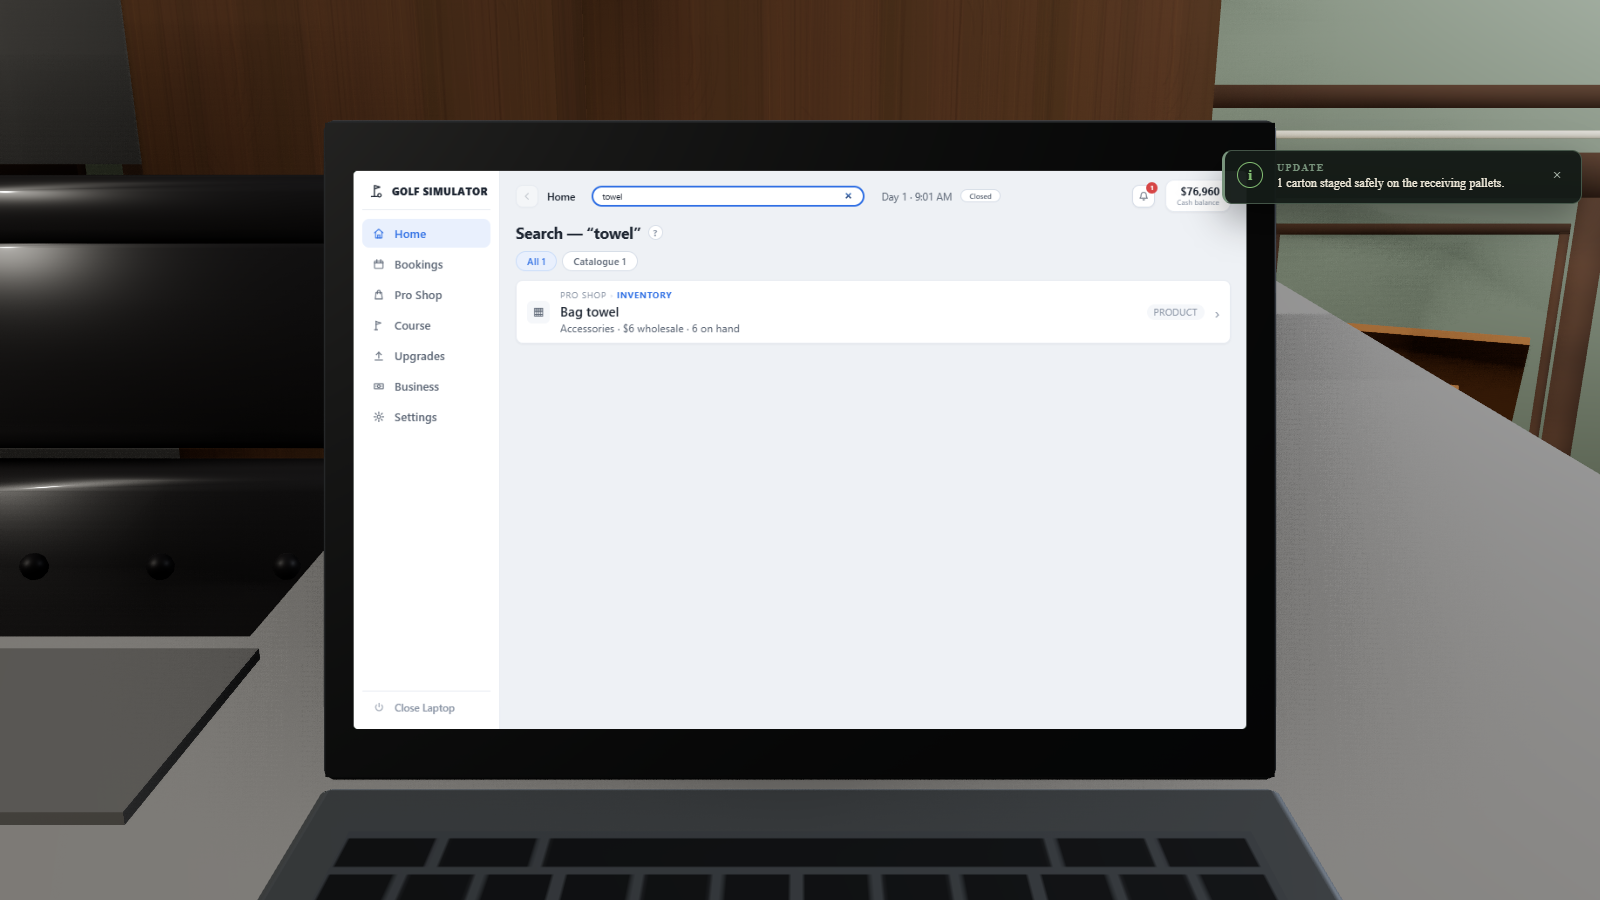
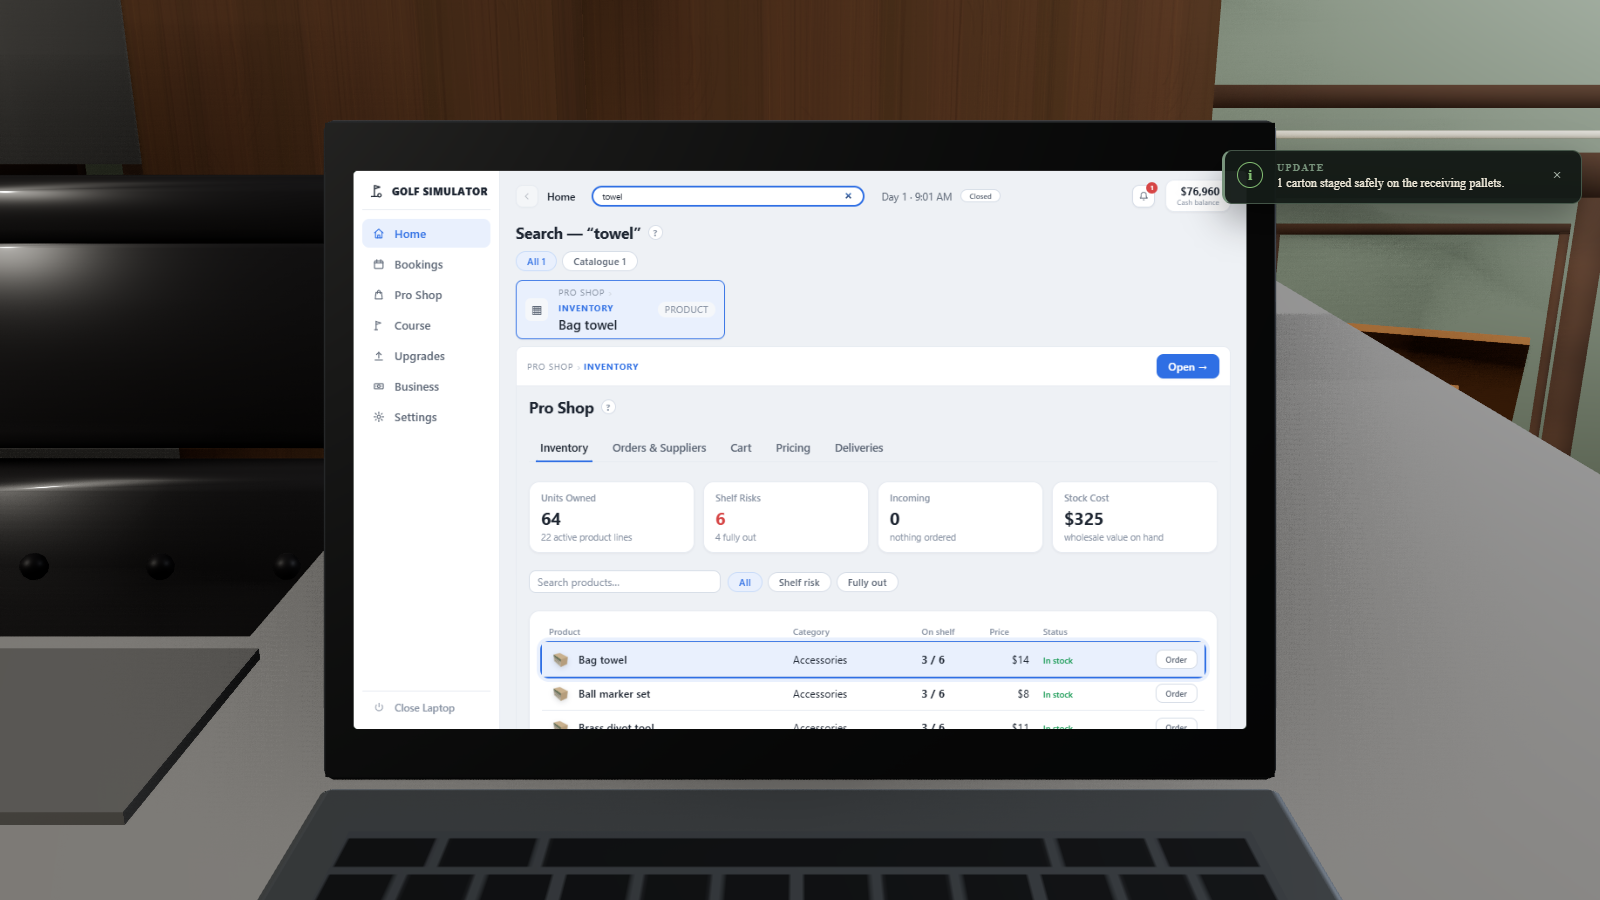
Search previews ARE the page: the real map, the real switch, live DOM
Playtest 2026-07-30: "make it show the actual thing — if he searches map it
shows the actual map, the exact way it looks on the laptop." Location rows are
gone as the payload; they compacted into a chip rail, and the panel under them
renders the selected hit's page by RUNNING the page's own function with the
paint target swapped. Same head, same tab bar, same cards, live buttons — a
tab clicked inside the preview re-renders the preview on that tab, because it
is not a picture of the page, it is the page.

Open → in the preview bar is what navigates (row click previews), the anchor
flashes INSIDE the panel via the generalised revealAnchor(anchor, container),
and per-tab aliases put "map" on Course › Overview (with orders/money/employees
aliases on their tabs while there).

MEASURED live (laptop-search-navigate.json, all 25 findings true):
  - "exact change" previews the REAL checkbox row — a label wrapping an actual
    input — with the flash inside the panel, and Open lands on
    Settings › Checkout with the row revealed.
  - "map" previews the Course page with the LIVE aerial: the canvas exists and
    its pixels are drawn (sampled alpha), the head says Course, and the shot
    laptop-search-8-map-preview.png shows the aerial + condition bars inline
    under the search field.
  - the two-step contract (chip = preview, Open = navigate) verified for the
    product, the setting and the booking-by-surname cases.
[…]

diff --git a/src/ui/laptop.js b/src/ui/laptop.js
@@ -551,7 +551,7 @@ export function makeLaptop(app, opts) {
     placeholder: 'Search the whole laptop…',
     'aria-label': 'Search every page, product, person and setting in the laptop',
   });
-  searchInput.addEventListener('input', () => { query = searchInput.value.trim(); render(); });
+  searchInput.addEventListener('input', () => { query = searchInput.value.trim(); searchSelection = 0; render(); });
   searchInput.addEventListener('keydown', (e) => {
     e.stopPropagation(); // typing 'w' in here is text, not a walk key
     if (e.key === 'Escape' && query) {
@@ -582,7 +582,11 @@ export function makeLaptop(app, opts) {
   root.addEventListener('click', (e) => e.stopPropagation());
 
   // --- building blocks ----------------------------------------------------------------------
-  const paint = (...kids) => content.replaceChildren(...kids.filter((k) => k != null && k !== false));
+  // paint targets `content` — except while the search preview borrows it. The
+  // preview renders a page by RUNNING the page's own function with the target
+  // swapped, so what search shows is the page's exact DOM, not a description.
+  let paintTarget = content;
+  const paint = (...kids) => paintTarget.replaceChildren(...kids.filter((k) => k != null && k !== false));
   const sect = (t) => el('div', { class: 'lt-sect', text: t });
   const row = (...kids) => el('div', { class: 'lt-row' }, ...kids);
   const chip = (t, kind = '') => el('span', { class: `lt-chip ${kind}`, text: t });
@@ -3215,10 +3219,17 @@ export function makeLaptop(app, opts) {
     // --- the pages themselves, and every tab on them -----------------------------
     // Apple's Settings search returns the panes as well as the switches inside them,
     // and it is the fastest way to cross the laptop: type "deliv", press the row.
+    const TAB_ALIASES = {
+      'course:overview': ['map', 'aerial', 'course map', 'holes map'],
+      'shop:deliveries': ['orders', 'shipments', 'boxes'],
+      'finances:finances': ['money', 'books', 'ledger', 'cash'],
+      'upgrades:staff': ['employees', 'hire', 'team'],
+    };
     for (const n of NAV) {
       add('Page', n.label, 'Open this desk', { page: n.id }, [n.id]);
       for (const [tab, label] of tabsOf(n.id)) {
-        add('Page', label, `${n.label} tab`, { page: n.id, tab }, [tab, n.id, n.label]);
+        add('Page', label, `${n.label} tab`, { page: n.id, tab },
+          [tab, n.id, n.label, ...(TAB_ALIASES[`${n.id}:${tab}`] || [])]);
       }
     }
 
@@ -3352,6 +3363,7 @@ export function makeLaptop(app, opts) {
 
   // WHAT THE PLAYER SEARCHED, WHERE IT LIVES, AND WHAT TO FLASH WHEN WE ARRIVE.
   let searchFilter = 'all';
+  let searchSelection = 0;    // which hit the live preview is showing
   let lastReveal = null;      // {anchor, found, selector, text} — read by the QA driver
 
   // The order matters: a section heading is a better landing place than a table cell
@@ -3367,14 +3379,14 @@ export function makeLaptop(app, opts) {
    * null is a real answer and is recorded, because "navigated but the row was not
    * there" must not read the same as "navigated and found it".
    */
-  function revealAnchor(anchor) {
+  function revealAnchor(anchor, container = content) {
     lastReveal = { anchor: anchor || null, found: false, selector: null, text: null };
     if (!anchor) return null;
     const needle = String(anchor).trim().toLowerCase();
     if (!needle) return null;
     for (const pass of ['exact', 'partial']) {
       for (const selector of ANCHOR_SELECTORS) {
-        for (const node of content.querySelectorAll(selector)) {
+        for (const node of container.querySelectorAll(selector)) {
           const text = (node.textContent || '').trim().toLowerCase();
           if (!text || text.length > 240) continue;
           const hit = pass === 'exact' ? text === needle : text.includes(needle);
@@ -3425,24 +3437,24 @@ export function makeLaptop(app, opts) {
   // So the crumbs are the first thing in the row's text block, in their own type, and
   // the row is a single button — the whole thing is the target, not a "Go" chip at the
   // far right that the player has to aim at.
-  function searchResultRow(hit) {
-    const crumbs = el('div', { class: 'lt-hitpath' });
+  function searchResultRow(hit, index) {
+    const crumbs = el('span', { class: 'lt-hitpath' });
     (hit.path || []).forEach((part, i) => {
       if (i) crumbs.appendChild(el('span', { class: 'lt-hitsep', text: '›' }));
       crumbs.appendChild(el('span', { class: `lt-hitcrumb ${i === (hit.path.length - 1) ? 'lt-hitcrumblast' : ''}`, text: part }));
     });
+    // A chip: clicking it swaps the live preview underneath to this hit's real
+    // page. Open (in the preview bar) is what navigates.
     return el('button', {
-      class: 'lt-hit',
-      title: `Open ${formatPagePath(hit.target.page, hit.target.tab, hit.target.pathExtra)}`,
-      onclick: () => openSearchHit(hit),
+      class: `lt-hit ${index === searchSelection ? 'on' : ''}`,
+      title: `Preview ${formatPagePath(hit.target.page, hit.target.tab, hit.target.pathExtra)}`,
+      onclick: () => { searchSelection = index; click(); render(); },
     },
     el('span', { class: 'lt-hitmark', text: KIND_MARK[hit.kind] || '▸' }),
     el('span', { class: 'lt-hitbody' },
       crumbs,
-      el('span', { class: 'lt-hitname', text: hit.label }),
-      hit.detail ? el('span', { class: 'lt-hitdetail', text: hit.detail }) : null),
-    el('span', { class: 'lt-hitkind', text: hit.kind }),
-    el('span', { class: 'lt-hitgo', text: '›' }));
+      el('span', { class: 'lt-hitname', text: hit.label })),
+    el('span', { class: 'lt-hitkind', text: hit.kind }));
   }
 
   function pageSearch(st) {
@@ -3456,19 +3468,58 @@ export function makeLaptop(app, opts) {
     const hits = rankSearchEntries(index, query, { filter: searchFilter });
     const total = groups.find((g) => g.id === 'all')?.count || 0;
 
+    // THE PREVIEW IS THE PAGE. Playtest 2026-07-30: "make it show the actual
+    // thing — if he searches map it shows the actual map, the exact way it
+    // looks on the laptop." So the selected hit renders by running its page's
+    // own function into the preview container: same head, same tab bar, same
+    // cards, live buttons. The rail above stays compact; Open jumps for real.
+    searchSelection = Math.max(0, Math.min(searchSelection, hits.length - 1));
+    const selected = hits[searchSelection] || null;
+
+    const preview = el('div', { class: 'lt-searchpreview' });
+    if (selected) {
+      const target = selected.target || {};
+      if (target.tab) ts(target.page).tab = target.tab;
+      if (Number.isFinite(target.day)) teeDay = target.day;
+      const fn = PAGES[target.page];
+      const prevTarget = paintTarget;
+      paintTarget = preview;
+      try {
+        if (fn) fn(); else preview.replaceChildren(empty('That page is not installed.'));
+      } catch (e) {
+        preview.replaceChildren(errBox(`The ${target.page} page could not be drawn: ${e && e.message ? e.message : e}`));
+      } finally {
+        paintTarget = prevTarget;
+      }
+      revealAnchor(target.anchor || null, preview);
+    }
+
     paint(
       head(`Search — “${query}”`, total
-        ? `${total} match${total === 1 ? '' : 'es'} in ${index.length} indexed items. Every result says the page it lives on; opening one goes there and flashes it.`
+        ? `${total} match${total === 1 ? '' : 'es'} in ${index.length} indexed items. The panel below IS the page it lives on — Open jumps to it.`
         : 'Nothing matches. Try a product, a person, a page, a material, or what the thing does.'),
       total ? el('div', { class: 'lt-hitfilters' }, ...groups.map((g) => el('button', {
         class: `lt-tab ${searchFilter === g.id ? 'on' : ''}`,
         text: `${g.label} ${g.count}`,
-        onclick: () => { searchFilter = g.id; click(); render(); },
+        onclick: () => { searchFilter = g.id; searchSelection = 0; click(); render(); },
       }))) : null,
       droppedFilter ? row(meta('That filter has nothing under this query — showing everything.')) : null,
       hits.length
-        ? el('div', { class: 'lt-hitlist' }, ...hits.map(searchResultRow))
+        ? el('div', { class: 'lt-hitrail' }, ...hits.map((hit, index) => searchResultRow(hit, index)))
         : empty(total ? 'Nothing under that filter.' : 'No matches'),
+      selected ? el('div', { class: 'lt-previewbar' },
+        el('span', { class: 'lt-hitpath' },
+          ...selected.path.flatMap((part, i) => [
+            i ? el('span', { class: 'lt-hitsep', text: '›' }) : null,
+            el('span', { class: `lt-hitcrumb ${i === selected.path.length - 1 ? 'lt-hitcrumblast' : ''}`, text: part }),
+          ]).filter(Boolean)),
+        el('span', { class: 'lt-headspace' }),
+        el('button', {
+          class: 'lt-primary lt-hitopen',
+          text: 'Open →',
+          onclick: () => openSearchHit(selected),
+        })) : null,
+      selected ? preview : null,
       hits.length && hits.length < total
         ? row(meta(`Showing the ${hits.length} closest of ${total}. Keep typing to narrow it.`))
         : null,

diff --git a/tools/qa/laptop-search-navigate.js b/tools/qa/laptop-search-navigate.js
@@ -194,15 +194,36 @@ async (page) => {
   });
   await page.screenshot({ path: path.join(outDir, 'laptop-search-3-setting.png') });
 
-  // …and go there. Then MEASURE the landing: page id, tab, the reveal record, the flash, and
-  // whether the marked row is inside the scroll viewport.
-  let landing = null;
+  // Row click PREVIEWS (2026-07-30: the panel renders the real page); the
+  // preview must carry the page's actual DOM — the real checkbox row — with the
+  // anchor flashed inside it. Open then navigates for real.
+  let settingPreview = null;
   if (settingsHit) {
     await page.evaluate(() => {
       const row = [...document.querySelectorAll('.lt-hit')]
         .find((r) => (r.querySelector('.lt-hitname')?.textContent || '').includes('Automatic exact change'));
       row?.click();
     });
+    await page.waitForTimeout(600);
+    settingPreview = await page.evaluate(() => {
+      const panel = document.querySelector('.lt-searchpreview');
+      const checkbox = panel && [...panel.querySelectorAll('label')]
+        .find((l) => (l.textContent || '').includes('Automatic exact change'));
+      return {
+        panelPresent: !!panel,
+        realCheckboxRow: !!(checkbox && checkbox.querySelector('input[type="checkbox"]')),
+        flashInsidePreview: !!panel?.querySelector('.lt-searchhit'),
+        pageStillSearch: !!document.querySelector('.lt-hitrail'),
+      };
+    });
+    await page.screenshot({ path: path.join(outDir, 'laptop-search-7-preview-setting.png') });
+  }
+
+  // …and go there via Open. Then MEASURE the landing: page id, tab, the reveal
+  // record, the flash, and whether the marked row is inside the scroll viewport.
+  let landing = null;
+  if (settingsHit) {
+    await page.evaluate(() => document.querySelector('.lt-hitopen')?.click());
     await page.waitForTimeout(700);
     landing = await page.evaluate(() => {
       const lap = window.__fw?.laptop;
@@ -238,9 +259,13 @@ async (page) => {
       crumbs: [...row.querySelectorAll('.lt-hitcrumb')].map((n) => n.textContent),
       rank: [...document.querySelectorAll('.lt-hit')].indexOf(row),
     };
-    row.click();
+    row.click(); // selects the preview
     return out;
   });
+  if (productRow) {
+    await page.waitForTimeout(500);
+    await page.evaluate(() => document.querySelector('.lt-hitopen')?.click());
+  }
   if (productRow) {
     await page.waitForTimeout(800);
     productLanding = await page.evaluate(() => {
@@ -268,11 +293,12 @@ async (page) => {
       .find((r) => (r.querySelector('.lt-hitname')?.textContent || '').includes('Alcazar'));
     if (!row) return { found: false };
     const crumbs = [...row.querySelectorAll('.lt-hitcrumb')].map((n) => n.textContent);
-    const detail = row.querySelector('.lt-hitdetail')?.textContent || null;
-    row.click();
-    return { found: true, crumbs, detail };
+    row.click(); // preview first
+    return { found: true, crumbs };
   });
   if (bookingHit.found) {
+    await page.waitForTimeout(500);
+    await page.evaluate(() => document.querySelector('.lt-hitopen')?.click());
     await page.waitForTimeout(700);
     bookingHit.landed = await page.evaluate(() => ({
       pageId: window.__fw?.laptop?.pageId?.() ?? null,
@@ -281,6 +307,29 @@ async (page) => {
     }));
     await page.screenshot({ path: path.join(outDir, 'laptop-search-6-booking.png') });
   }
+
+  // "if he searches map it shows the actual map" — the preview must contain the
+  // course page's REAL aerial canvas, drawn, not a row describing it.
+  await searchFor('map');
+  const mapPreview = await page.evaluate(() => {
+    const panel = document.querySelector('.lt-searchpreview');
+    const canvas = panel?.querySelector('canvas');
+    let drawn = false;
+    if (canvas) {
+      try {
+        const ctx = canvas.getContext('2d');
+        const data = ctx.getImageData(0, 0, Math.min(64, canvas.width), Math.min(64, canvas.height)).data;
+        for (let i = 3; i < data.length; i += 4) if (data[i] > 0) { drawn = true; break; }
+      } catch { drawn = null; }
+    }
+    return {
+      panelPresent: !!panel,
+      hasCanvas: !!canvas,
+      canvasDrawn: drawn,
+      headSaysCourse: /Course/.test(panel?.querySelector('.lt-h1')?.textContent || ''),
+    };
+  });
+  await page.screenshot({ path: path.join(outDir, 'laptop-search-8-map-preview.png') });
 
   const indexShape = await page.evaluate(() => ({
     size: window.__fw?.laptop?.searchIndexSize?.() ?? null,
@@ -317,6 +366,12 @@ async (page) => {
     // stage it is in — so the claim is that money on the road is indexed, in whichever form.
     moneyOnTheRoadIndexed: ((indexAtOpen.kinds?.Order || 0) + (indexAtOpen.kinds?.Delivery || 0)) > 0,
     worldSeeded: !!seeded.hired && !!seeded.booked && !!seeded.ordered,
+    // The preview IS the page: the real checkbox row, the flash inside the
+    // panel, and the actual drawn aerial for "map".
+    previewShowsRealSetting: settingPreview?.realCheckboxRow === true,
+    previewFlashesAnchor: settingPreview?.flashInsidePreview === true,
+    mapPreviewIsTheActualMap: mapPreview.hasCanvas === true && mapPreview.canvasDrawn !== false,
+    mapPreviewIsTheCoursePage: mapPreview.headSaysCourse === true,
     // A guest on the tee sheet is findable by name, which is the whole point of indexing the
     // directory rather than the reservation label.
     bookingFoundByName: bookingHit?.found === true,
@@ -336,10 +391,13 @@ async (page) => {
     productRow,
     productLanding,
     bookingHit,
+    settingPreview,
+    mapPreview,
     findings,
     shots: [
       'laptop-search-1-live.png', 'laptop-search-2-filtered.png', 'laptop-search-3-setting.png',
       'laptop-search-4-landed.png', 'laptop-search-5-product.png', 'laptop-search-6-booking.png',
+      'laptop-search-7-preview-setting.png', 'laptop-search-8-map-preview.png',
     ],
     errs: errs.slice(0, 12),
     ok: Object.values(findings).every((v) => v === true) && errs.length === 0,

diff --git a/tests/laptop-search-index.test.js b/tests/laptop-search-index.test.js
@@ -290,40 +290,53 @@ test('typing produces results with no submit, and every row names its page', () 
   assert.equal(crumbs[0], 'Pro Shop', `the top hit for "deliveries" should live in the Pro Shop, not ${crumbs}`);
 });
 
-test('selecting a result navigates to its page, its tab, and flashes the row', () => {
+test('a chip previews the REAL page; Open navigates and flashes the row', () => {
+  // 2026-07-30: "make it show the actual thing." A chip click renders the
+  // destination page's own DOM into the preview panel — same builder, live
+  // buttons — and the Open button is what navigates.
   const lap = openLaptop(livedInClub());
   typeQuery(lap, 'Pine Hills cap');
   const rows = collect(lap.root, 'lt-hit');
   const target = rows.find((r) => r.textContent.includes('Pine Hills cap'));
   assert.ok(target, 'the cap must be findable by its own name');
   target.click();
-  assert.equal(lap.pageId(), 'shop', 'the cap lives in the Pro Shop');
+  assert.ok(collect(lap.root, 'lt-searchpreview').length === 1, 'the preview panel renders');
+  const preview = collect(lap.root, 'lt-searchpreview')[0];
+  assert.match(preview.textContent, /Pine Hills cap/, 'the preview carries the real inventory row');
+  const open = collect(lap.root, 'lt-hitopen')[0];
+  assert.ok(open, 'the preview bar offers Open');
+  open.click();
+  assert.equal(lap.pageId(), 'shop', 'Open navigates to the Pro Shop');
   const reveal = lap.lastSearchReveal();
-  assert.ok(reveal, 'the reveal must be recorded');
   assert.equal(reveal.anchor, 'Pine Hills cap');
   assert.equal(reveal.found, true, `navigated but never found the row: ${JSON.stringify(reveal)}`);
-  // …and something on the page carries the flash class.
-  const flashed = collect(lap.root, 'lt-searchhit');
-  assert.ok(flashed.length >= 1, 'the destination row must be marked');
-  assert.match(flashed[0].textContent, /Pine Hills cap/);
 });
-
-test('a settings switch is findable by what it does and lands on the right tab', () => {
+test('a settings switch previews as the real checkbox row and Open lands on its tab', () => {
   const lap = openLaptop(livedInClub());
   typeQuery(lap, 'exact change');
   const rows = collect(lap.root, 'lt-hit');
   const target = rows.find((r) => r.textContent.includes('Automatic exact change'));
   assert.ok(target, '"exact change" must find the checkout switch');
-  // Read the crumbs as elements, not as the row's flattened text: in the real DOM they are
-  // flex items separated by gap, and the mini DOM joins textContent with no separator.
   const crumbs = target.querySelectorAll('.lt-hitcrumb').map((n) => n.textContent);
   assert.deepEqual(crumbs, ['Settings', 'Checkout']);
   target.click();
+  const preview = collect(lap.root, 'lt-searchpreview')[0];
+  assert.ok(preview, 'the preview panel renders');
+  // The REAL row: a label wrapping an actual checkbox input, not a description.
+  let realRow = false;
+  walk(preview, (node) => {
+    if (node.tagName === 'label' && node.textContent.includes('Automatic exact change')) {
+      walk(node, (child) => {
+        if (child.tagName === 'input' && child.attrs.type === 'checkbox') realRow = true;
+      });
+    }
+  });
+  assert.ok(realRow, 'the preview carries the actual switch, checkbox and all');
+  assert.ok(collect(preview, 'lt-searchhit').length >= 1, 'and the anchor flashes inside the preview');
+  collect(lap.root, 'lt-hitopen')[0].click();
   assert.equal(lap.pageId(), 'settings');
-  const reveal = lap.lastSearchReveal();
-  assert.equal(reveal.found, true, `the switch was not on the page it claimed: ${JSON.stringify(reveal)}`);
+  assert.equal(lap.lastSearchReveal().found, true);
 });
-
 test('NEGATIVE CONTROL — an anchor that is not on the destination reports found:false', () => {
   // The instrument has to be able to say no. If revealAnchor claimed a hit for anything, all
   // three tests above would pass with the highlight wired to nothing at all.

diff --git a/src/styles.css b/src/styles.css
@@ -2585,6 +2585,28 @@ body.register-mode .view-toggle { display: none !important; }
 }
 .lt-hitgo { color: var(--lt-dim); flex: 0 0 auto; font-size: 1.1em; }
 
+/* THE PREVIEW IS THE PAGE (2026-07-30). The rail compacts into chips; the panel
+   below renders the selected hit's real page DOM — same head, same cards. */
+.lt-hitrail {
+  display: flex; gap: 6px; overflow-x: auto; padding-bottom: 4px;
+  scrollbar-width: thin;
+}
+.lt-hitrail .lt-hit { width: auto; flex: 0 0 auto; max-width: 240px; padding: 6px 10px; }
+.lt-hitrail .lt-hit.on { border-color: var(--lt-blue); background: var(--lt-bluebg); }
+.lt-hitrail .lt-hitname { max-width: 170px; }
+.lt-previewbar {
+  display: flex; align-items: center; gap: 10px;
+  padding: 8px 12px; margin-top: 4px;
+  background: var(--lt-panel); border: 1px solid var(--lt-edge);
+  border-bottom: 0; border-radius: 8px 8px 0 0;
+}
+.lt-previewbar .lt-primary { padding: 6px 14px; }
+.lt-searchpreview {
+  border: 1px solid var(--lt-edge); border-radius: 0 0 8px 8px;
+  background: var(--lt-bg); padding: 12px 14px 16px;
+  display: flex; flex-direction: column; gap: 10px;
+}
+
 /* The landing flash. Selecting a result navigates and then marks the row it meant, because
    arriving on a page of forty rows without being told which one is not an answer. */
 .lt-searchhit {
